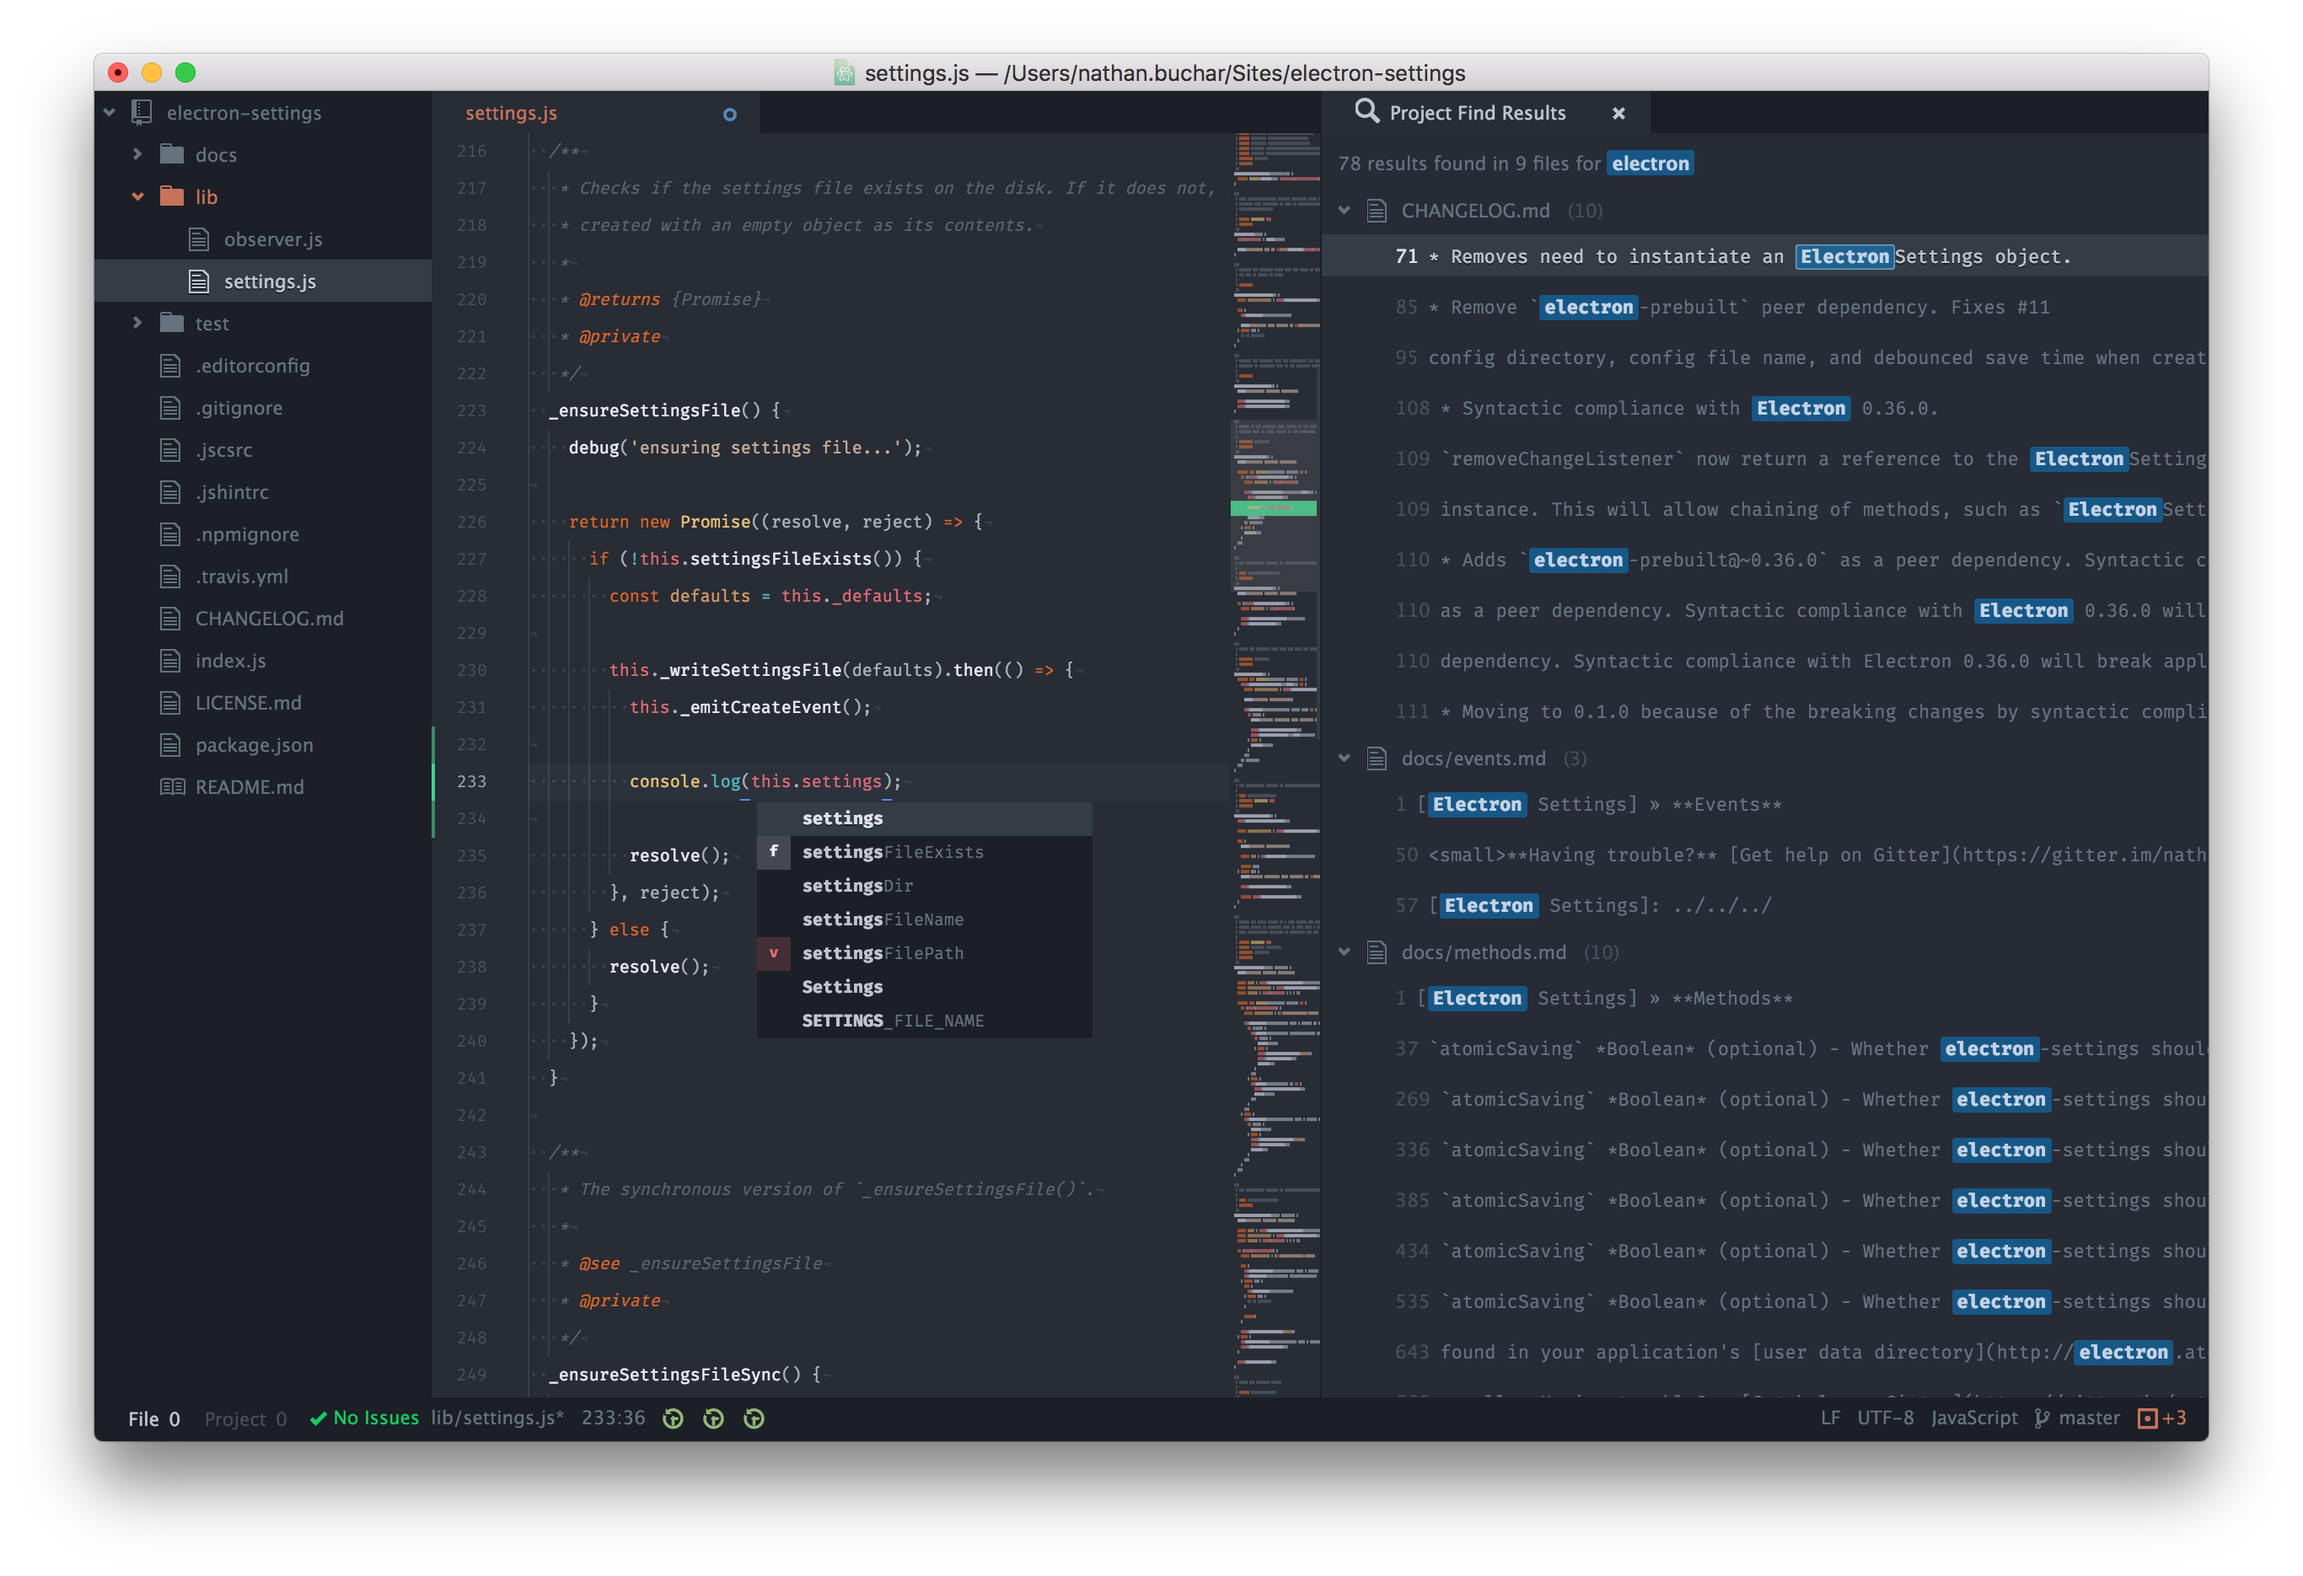
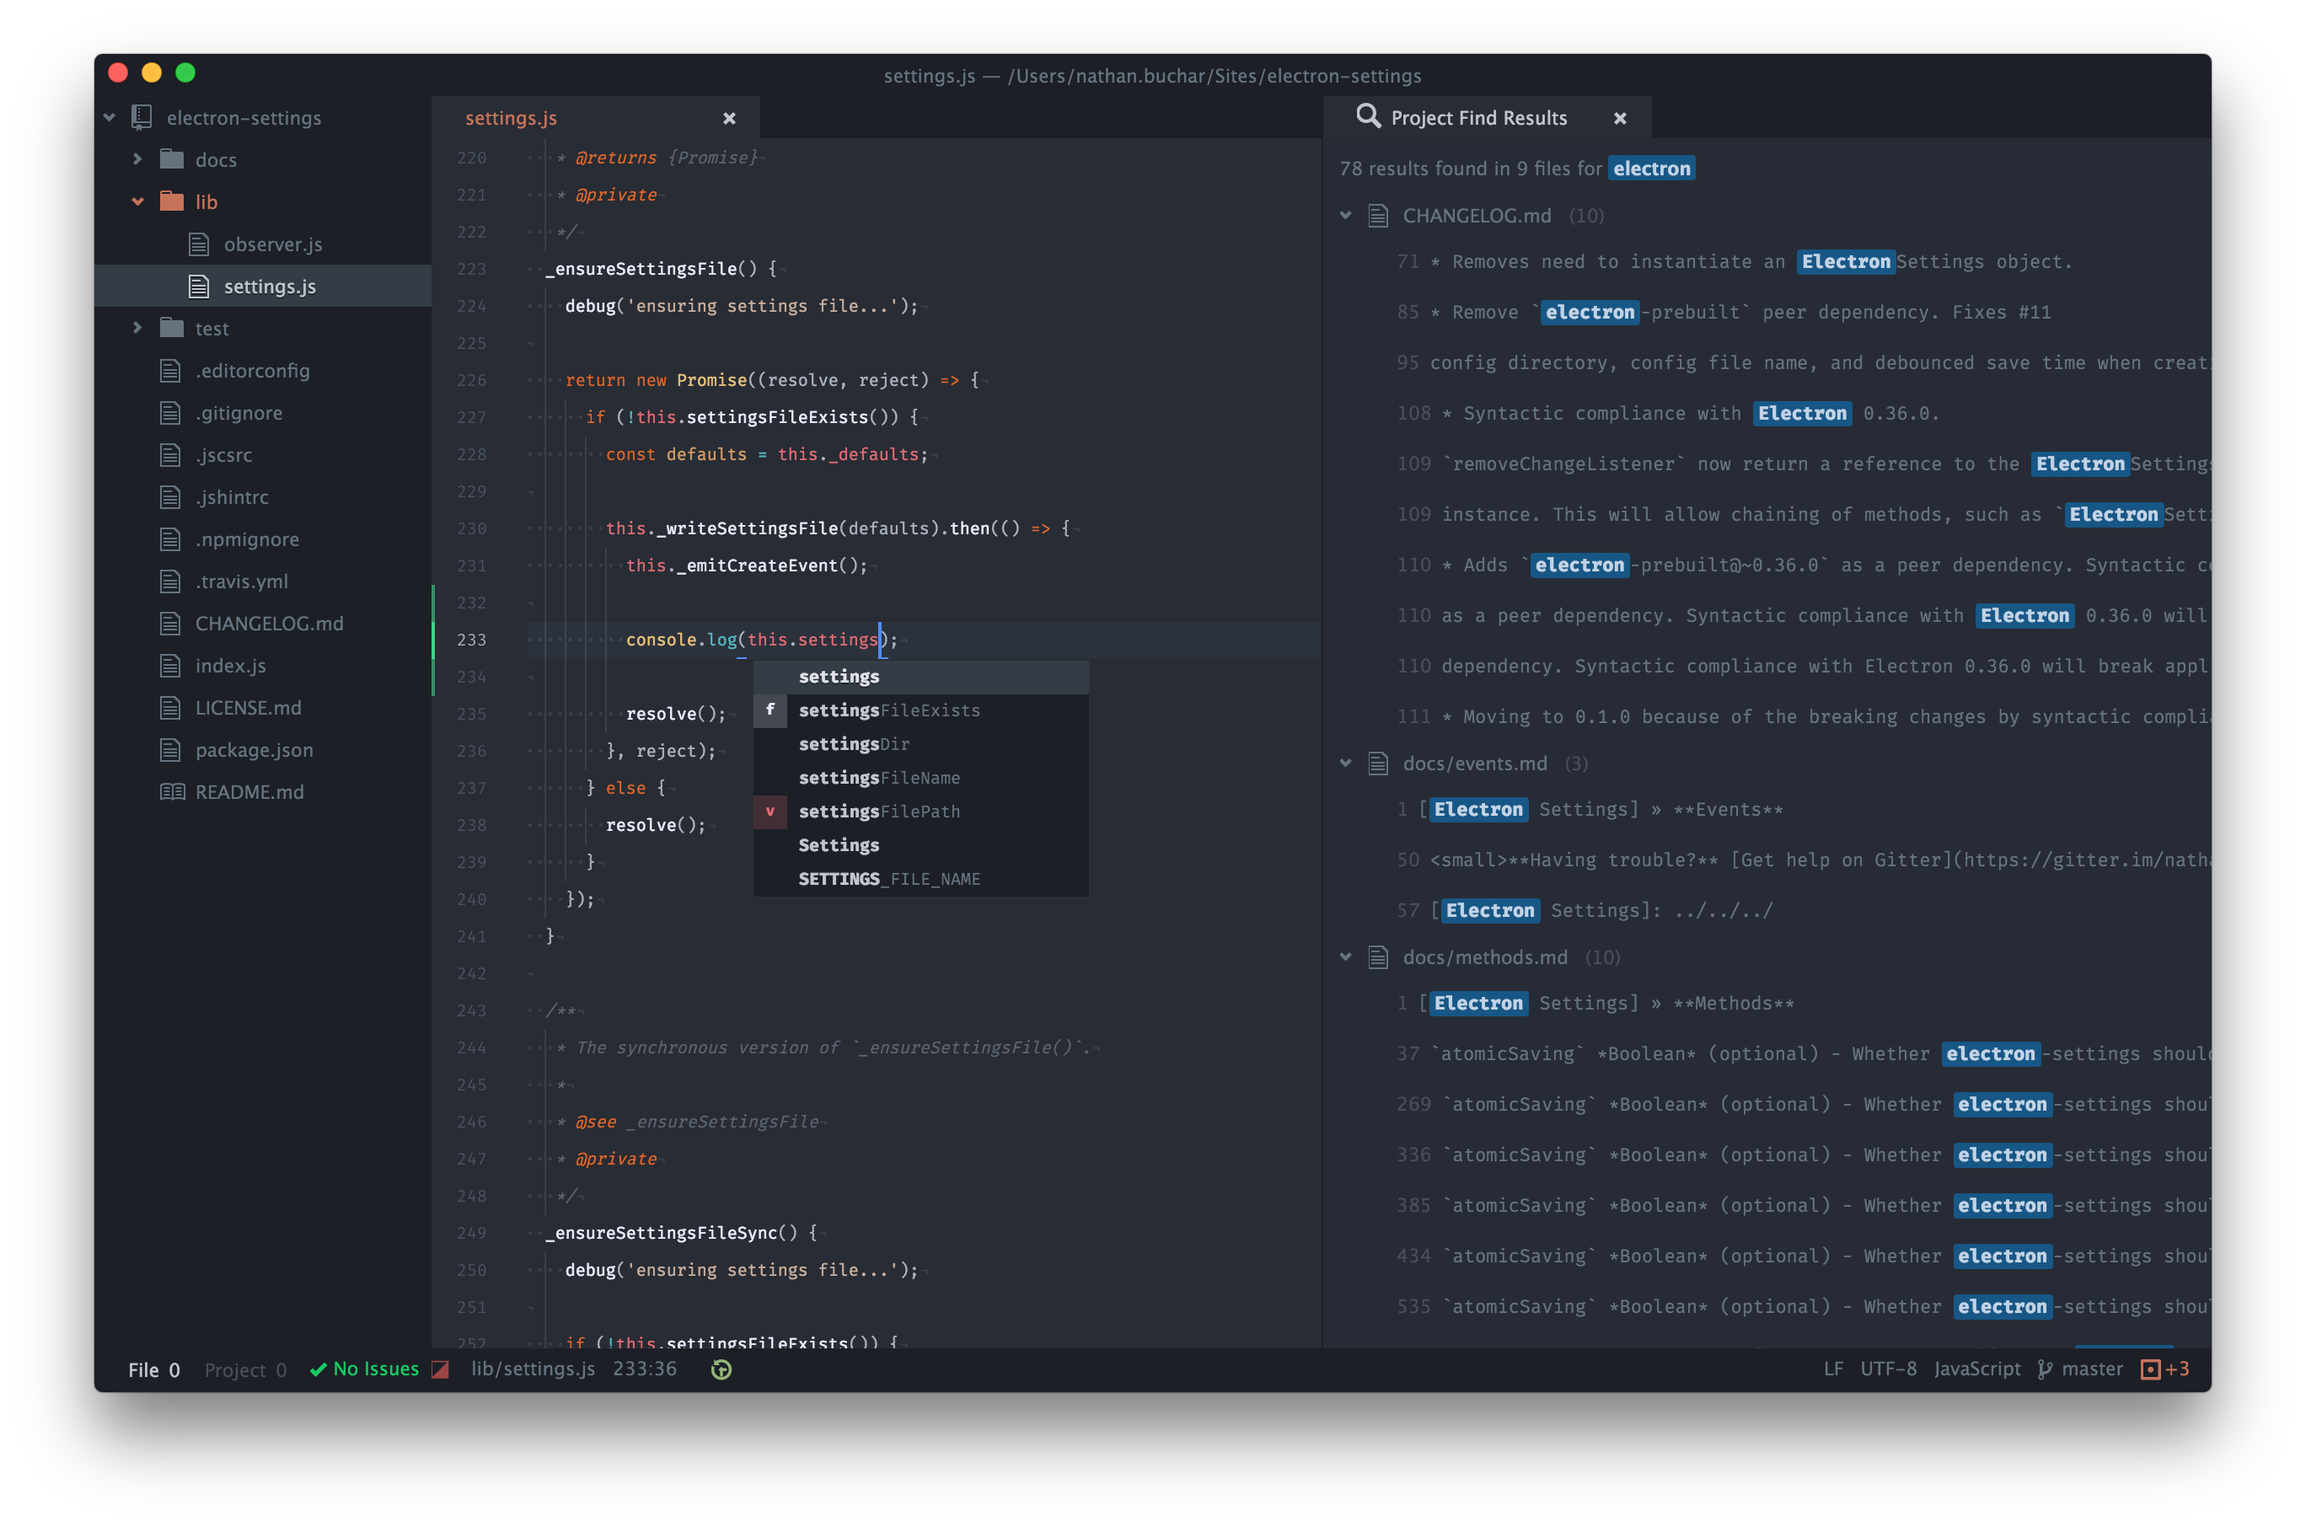
Support custom title bar colors

diff --git a/styles/title-bar.less b/styles/title-bar.less
@@ -1,0 +1,8 @@
+@import "ui-variables";
+
+.title-bar {
+  background-color: transparent;
+  border-color: transparent;
+	font-size: @font-size;
+  height: @tab-height;
+}

diff --git a/index.less b/index.less
@@ -16,3 +16,4 @@
 @import "styles/tree-view";
 @import "styles/utilities";
 @import "styles/zen";
+@import "styles/title-bar";

diff --git a/README.md b/README.md
@@ -1,6 +1,6 @@
 # Spacegray Dark Neue UI
 
-A better port of the [Spacegray](http://kkga.github.io/spacegray) Sublime theme by Gadzhi Kharkharov.
+A better port of the [Spacegray](http://kkga.github.io/spacegray) Sublime theme by Gadzhi Kharkharov. Supports [the new custom title bar](https://github.com/atom/atom/pull/11790) in Atom v1.11.0.
 
 ![](https://raw.githubusercontent.com/nathanbuchar/spacegray-dark-ui/master/screenshots/screenshot.png)
 
